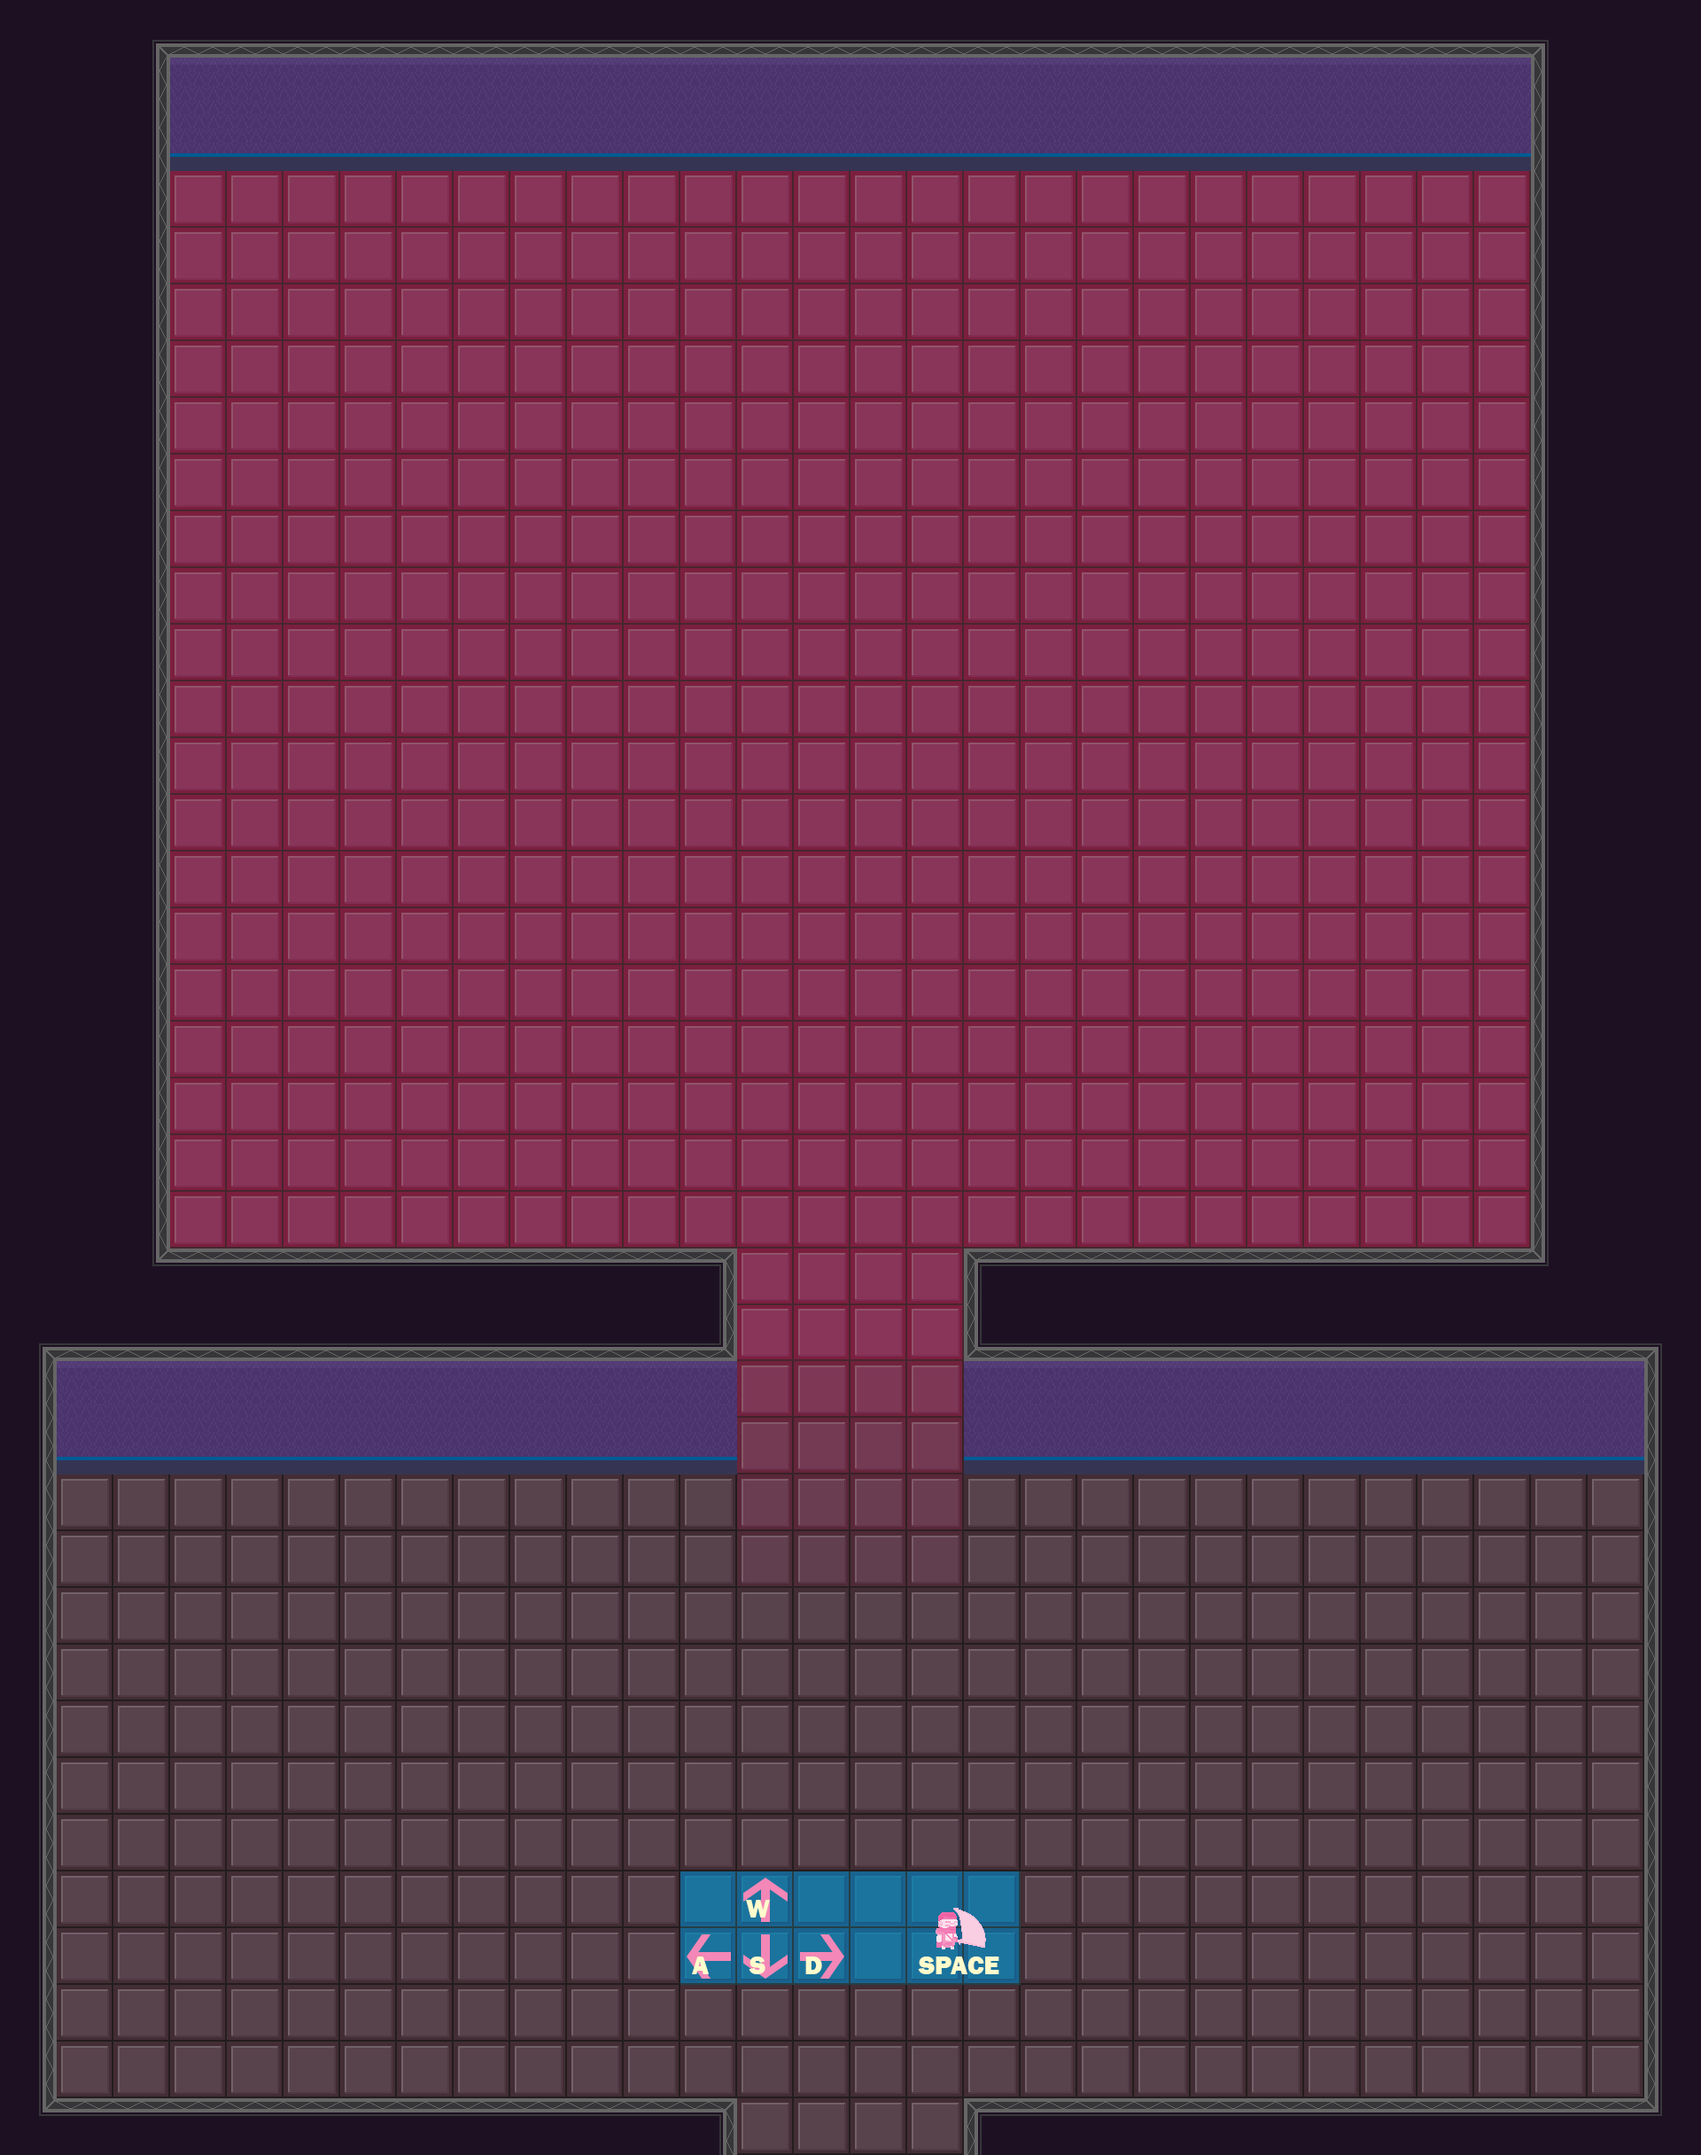
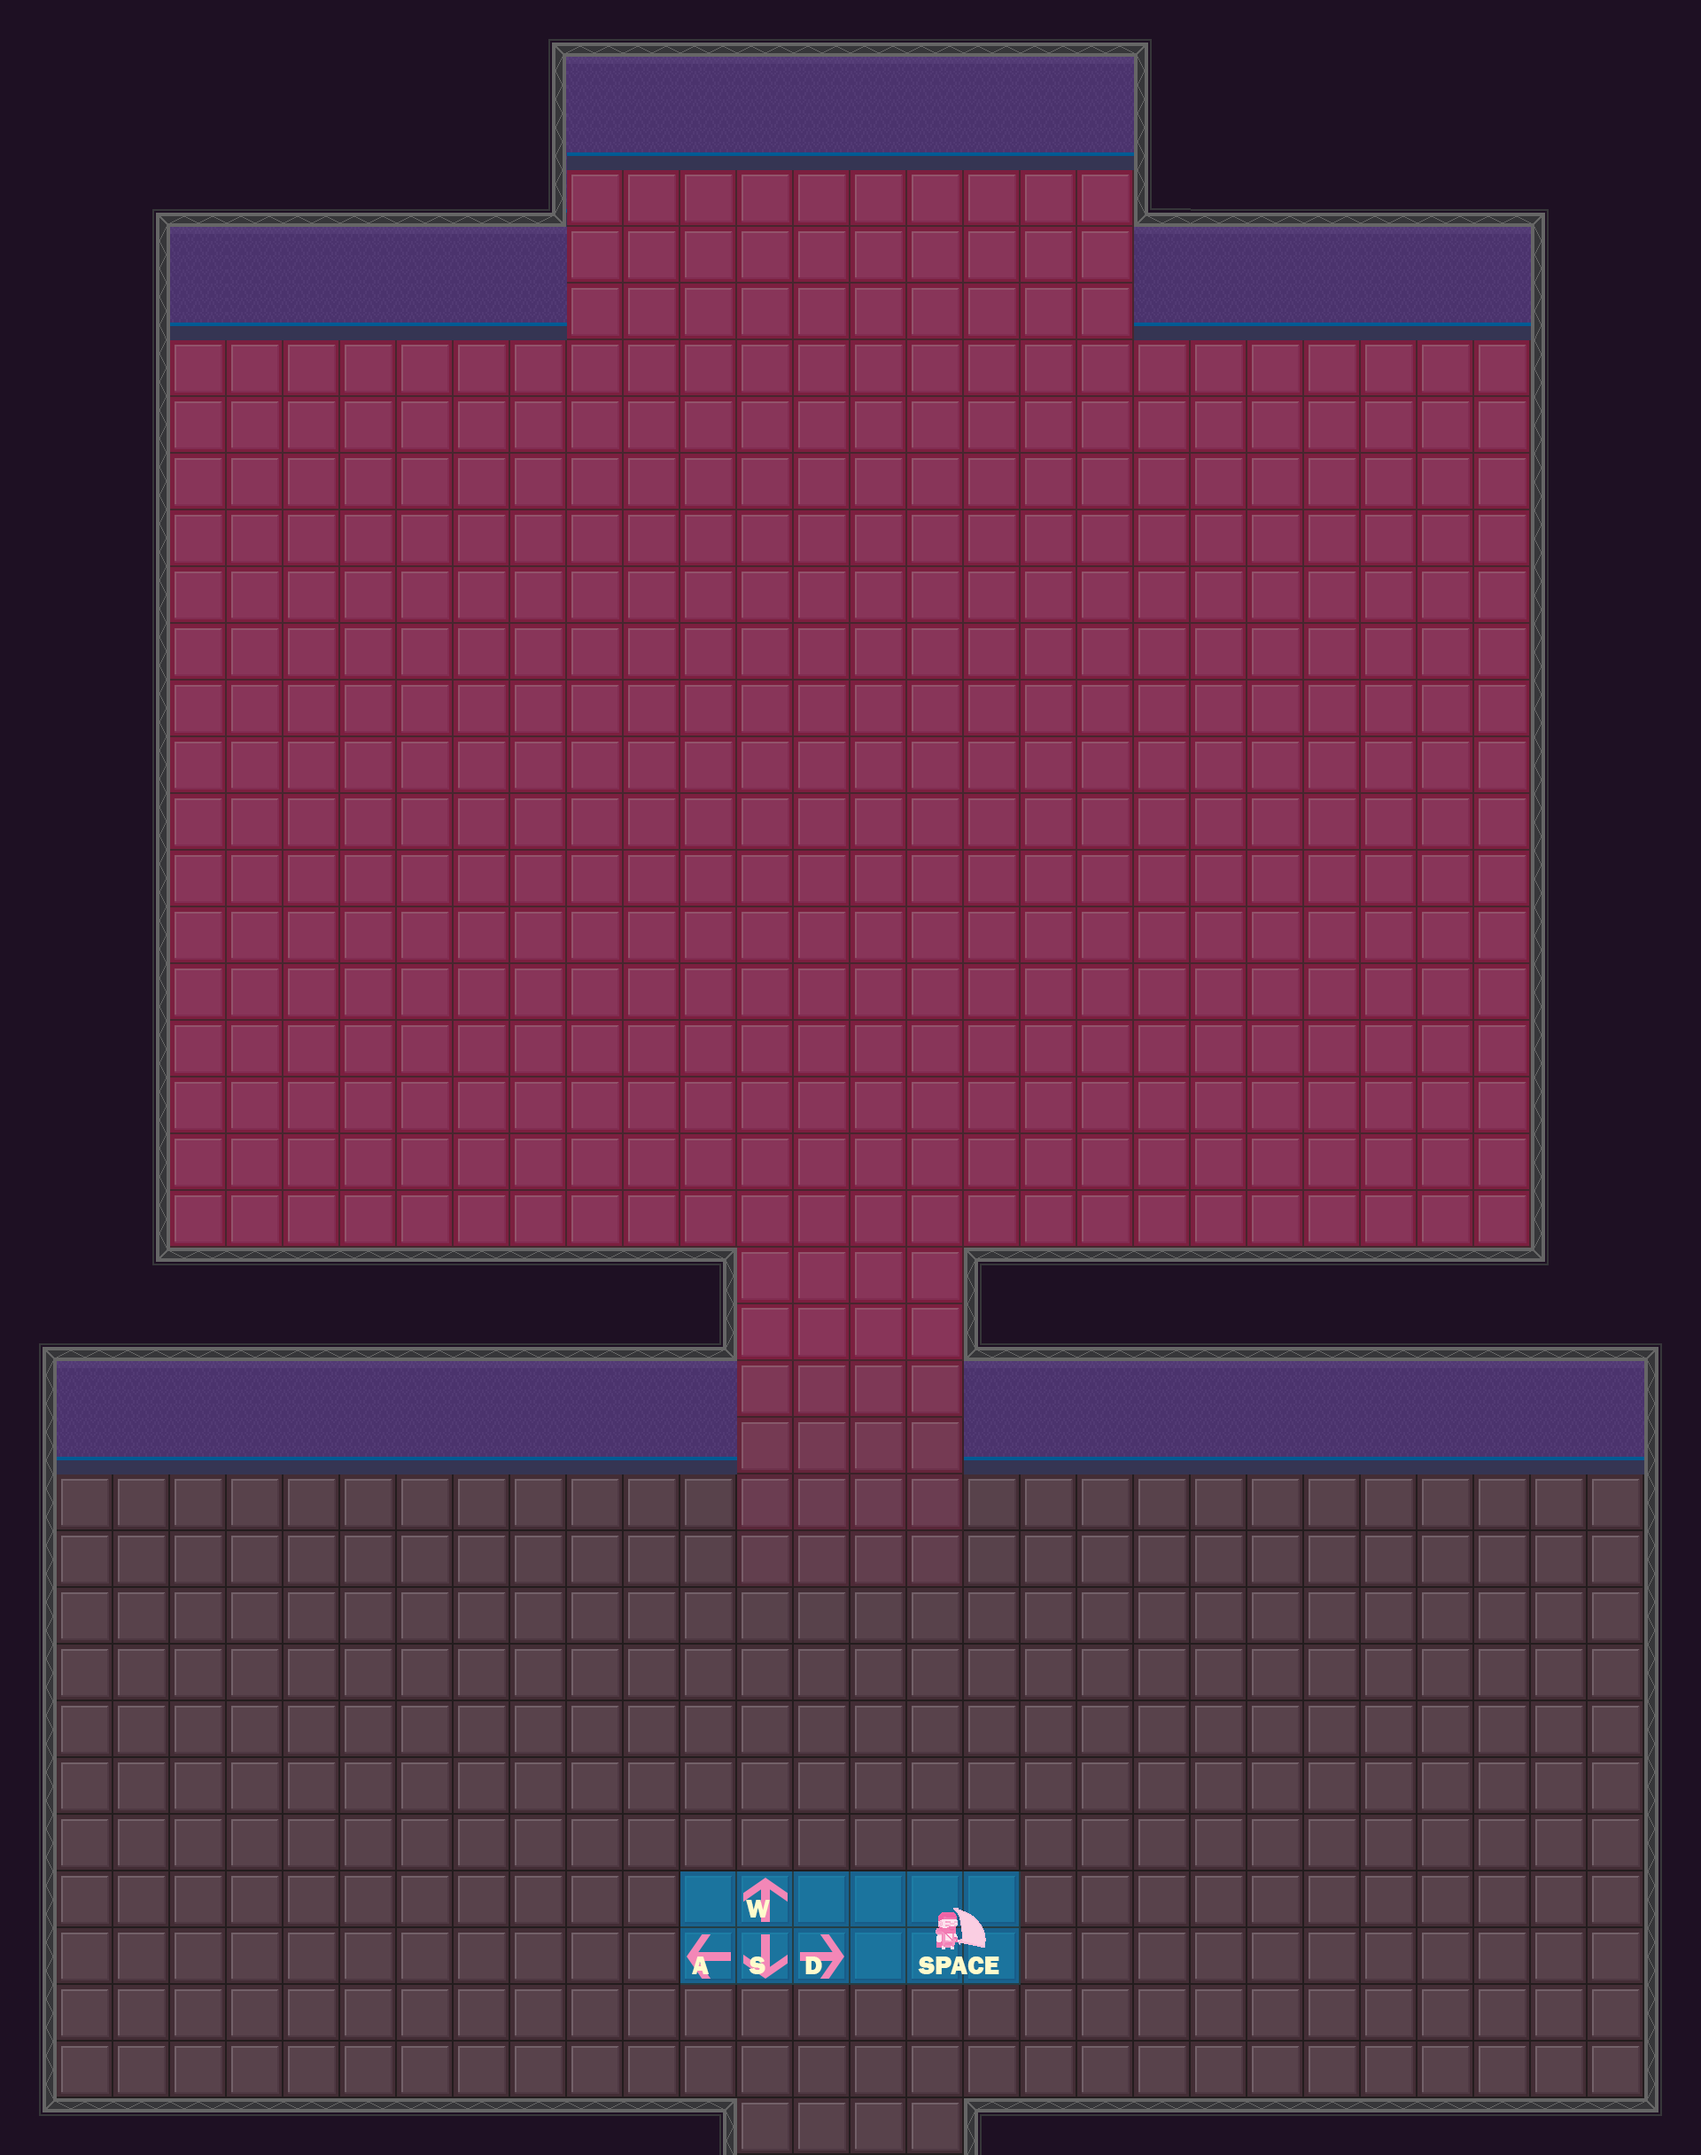
New bossRoom layout

diff --git a/arcade-team-10/arcade-team-10/app.js b/arcade-team-10/arcade-team-10/app.js
@@ -34,6 +34,8 @@ window.onload = function () {
     var pClearCircle;
     var map;
     var layer;
+    var bossRoomLCorner;
+    var bossRoomRCorner;
     var laserGate1;
     var laserGate2;
     var laserGate3;
@@ -78,6 +80,16 @@ window.onload = function () {
         layer.resizeWorld();
         map.setCollision(0, true, layer);
         //layer.debug = true;
+        bossRoomLCorner = new Phaser.Sprite(game, 192, 64);
+        bossRoomRCorner = new Phaser.Sprite(game, 1280, 64);
+        bossRoomLCorner.anchor.setTo(0, 0);
+        bossRoomRCorner.anchor.setTo(0, 0);
+        game.physics.enable(bossRoomLCorner, Phaser.Physics.ARCADE);
+        game.physics.enable(bossRoomRCorner, Phaser.Physics.ARCADE);
+        bossRoomLCorner.body.setSize(448, 256);
+        bossRoomRCorner.body.setSize(448, 256);
+        bossRoomLCorner.body.immovable = true;
+        bossRoomRCorner.body.immovable = true;
         bossRoom = new Room(0, 0, 1920, 1480, game);
         player = new Player(1000, 2000, game);
         game.add.existing(player);
@@ -96,7 +108,7 @@ window.onload = function () {
         enemies.enableBody = true;
         enemies.physicsBodyType = Phaser.Physics.ARCADE;
         createEnemies();
-        boss = new Boss(960, 225, player, game);
+        boss = new Boss(960, 200, player, game);
         pClearCircle = game.add.sprite(player.body.position.x, player.body.position.y);
         pClearCircle.anchor.setTo(0.5, 0.5);
         game.physics.arcade.enable(pClearCircle);
@@ -142,6 +154,8 @@ window.onload = function () {
             enemy.eUpdate(deltaTime);
         }, this);
         game.physics.arcade.collide(player, layer);
+        game.physics.arcade.collide(player, bossRoomLCorner);
+        game.physics.arcade.collide(player, bossRoomRCorner);
         game.physics.arcade.collide(enemies, layer);
         game.physics.arcade.collide(enemies, laserGate1);
         game.physics.arcade.collide(enemies, laserGate4);
@@ -530,8 +544,8 @@ var Boss = (function (_super) {
         _this.anchor.setTo(0.5, 0.5);
         game.physics.arcade.enable(_this);
         _this.body.immovable = true;
-        _this.body.height = _this.body.height * 0.9;
-        _this.scale.setTo(2, 2);
+        _this.scale.setTo(2.2, 2.2);
+        _this.body.setSize(_this.body.width * 1.2, _this.body.height, -(_this.body.width * 0.1), -2);
         _this.bossStage = _this.bossStageEnum.STAGE_0;
         _this.maxHealth = 100;
         _this.health = 100;

diff --git a/arcade-team-10/arcade-team-10/app.ts b/arcade-team-10/arcade-team-10/app.ts
@@ -30,6 +30,8 @@ window.onload = function ()
 
 	var map;
 	var layer;
+	var bossRoomLCorner: Phaser.Sprite;
+	var bossRoomRCorner: Phaser.Sprite;
 
 	var laserGate1: Barrier;
 	var laserGate2: Barrier;
@@ -90,6 +92,16 @@ window.onload = function ()
 		layer.resizeWorld();
 		map.setCollision(0, true, layer);
 		//layer.debug = true;
+		bossRoomLCorner = new Phaser.Sprite(game, 192, 64);
+		bossRoomRCorner = new Phaser.Sprite(game, 1280, 64);
+		bossRoomLCorner.anchor.setTo(0, 0);
+		bossRoomRCorner.anchor.setTo(0, 0);
+		game.physics.enable(bossRoomLCorner, Phaser.Physics.ARCADE);
+		game.physics.enable(bossRoomRCorner, Phaser.Physics.ARCADE);
+		bossRoomLCorner.body.setSize(448, 256);
+		bossRoomRCorner.body.setSize(448, 256);
+		bossRoomLCorner.body.immovable = true;
+		bossRoomRCorner.body.immovable = true;
 
 		bossRoom = new Room(0, 0, 1920, 1480, game);
 
@@ -116,7 +128,7 @@ window.onload = function ()
 
 		createEnemies();
 
-		boss = new Boss(960, 225, player, game);
+		boss = new Boss(960, 200, player, game);
 
 		pClearCircle = game.add.sprite(player.body.position.x, player.body.position.y);
 		pClearCircle.anchor.setTo(0.5, 0.5);
@@ -178,6 +190,8 @@ window.onload = function ()
 		}, this);
 
 		game.physics.arcade.collide(player, layer);
+		game.physics.arcade.collide(player, bossRoomLCorner);
+		game.physics.arcade.collide(player, bossRoomRCorner);
 		game.physics.arcade.collide(enemies, layer);
 		game.physics.arcade.collide(enemies, laserGate1);
 		game.physics.arcade.collide(enemies, laserGate4);
@@ -756,8 +770,8 @@ class Boss extends Phaser.Sprite
 		this.anchor.setTo(0.5, 0.5);
 		game.physics.arcade.enable(this);
 		this.body.immovable = true;
-		this.body.height = this.body.height * 0.9;
-		this.scale.setTo(2, 2);
+		this.scale.setTo(2.2, 2.2);
+		this.body.setSize(this.body.width * 1.2, this.body.height, -(this.body.width * 0.1), -2);
 
 		this.bossStage = this.bossStageEnum.STAGE_0;
 		this.maxHealth = 100;
